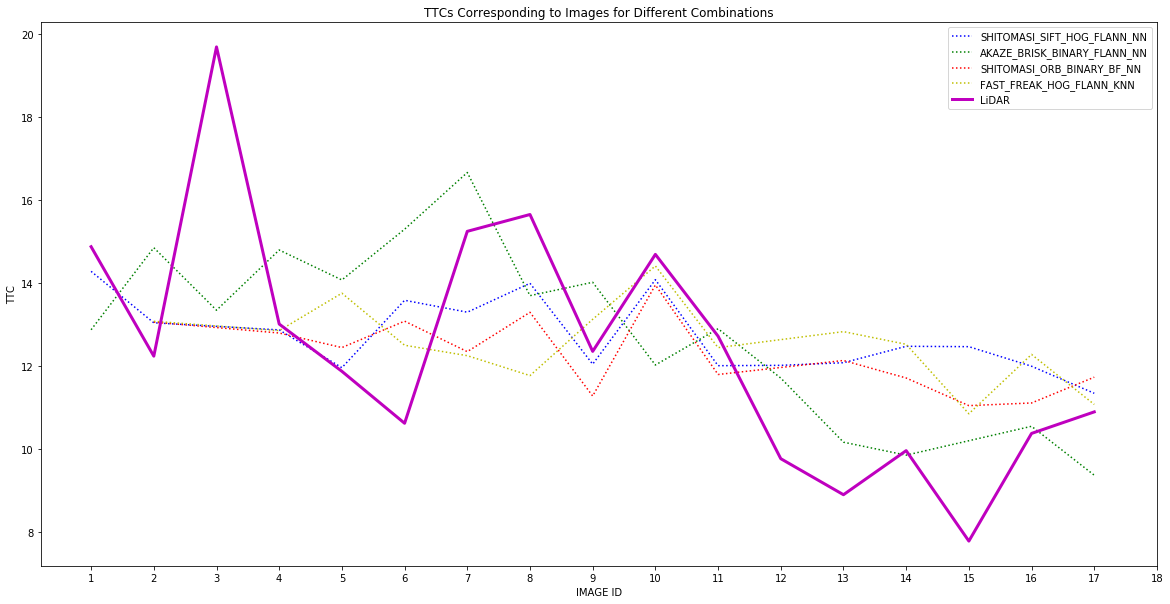
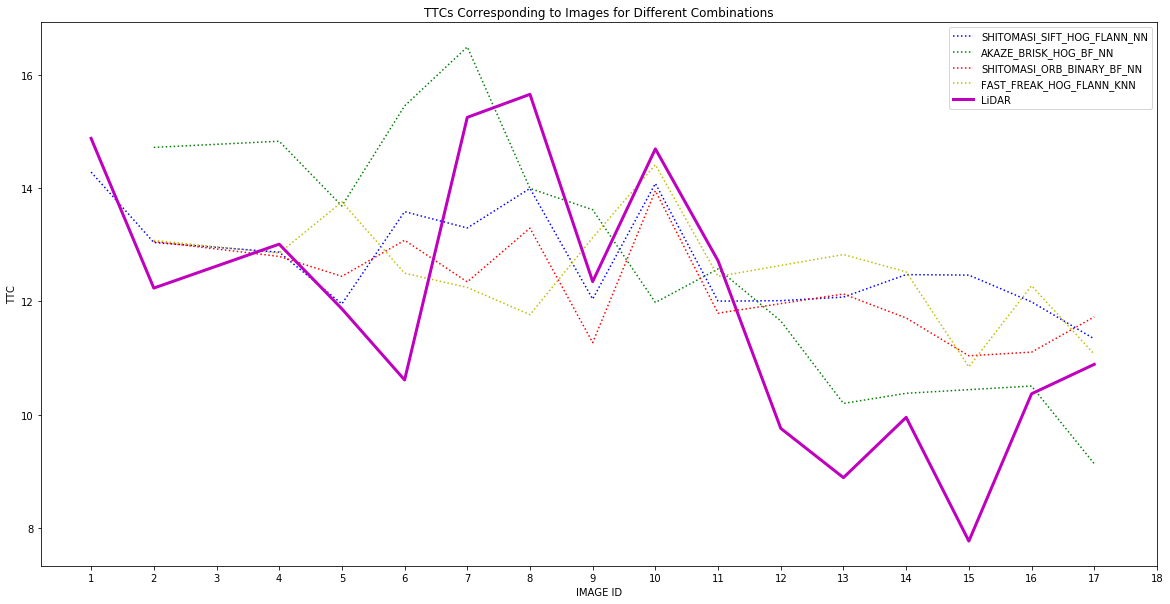
Finish README

diff --git a/README.md b/README.md
@@ -140,23 +140,23 @@ The TOP-10 combinations in terms of accuracy are
 
 | **COMBINATION** | **SCORE** | **IMG#1** | **IMG#2** | **IMG#3** | **IMG#4** | **IMG#5** | **IMG#6** | **IMG#7** | **IMG#8** | **IMG#9** | **IMG#10** | **IMG#11** | **IMG#12** | **IMG#13** | **IMG#14** | **IMG#15** | **IMG#16** | **IMG#17** | **IMG#18** |  
 |:-:|:-:|:-:|:-:|:-:|:-:|:-:|:-:|:-:|:-:|:-:|:-:|:-:|:-:|:-:|:-:|:-:|:-:|:-:|:-:|  
-| SHITOMASI_SIFT_HOG_FLANN_NN | 0.972 | **L**:14.87 <br> **C**:14.28 | **L**:12.23 <br> **C**:13.04 | N/A | **L**:13.01 <br> **C**:12.87 | **L**:11.87 <br> **C**:11.96 | **L**:10.61 <br> **C**:13.58 | **L**:15.25 <br> **C**:13.29 | **L**:15.65 <br> **C**:13.99 | **L**:12.35 <br> **C**:12.04 | **L**:14.69 <br> **C**:14.08 | **L**:12.72 <br> **C**:12.00 | **L**:9.76 <br> **C**:12.01 | **L**:8.89 <br> **C**:12.08 | **L**:9.95 <br> **C**:12.47 | **L**:7.77 <br> **C**:12.46 | **L**:10.37 <br> **C**:11.99 | **L**:10.89 <br> **C**:11.34 | N/A |  
-| SHITOMASI_SIFT_HOG_BF_NN | 0.911 | **L**:14.87 <br> **C**:14.07 | **L**:12.23 <br> **C**:13.74 | N/A | **L**:13.01 <br> **C**:13.02 | **L**:11.87 <br> **C**:12.41 | **L**:10.61 <br> **C**:13.74 | **L**:15.25 <br> **C**:13.36 | **L**:15.65 <br> **C**:13.99 | **L**:12.35 <br> **C**:12.11 | **L**:14.69 <br> **C**:14.08 | **L**:12.72 <br> **C**:11.67 | N/A | **L**:8.89 <br> **C**:12.08 | **L**:9.95 <br> **C**:12.47 | **L**:7.77 <br> **C**:12.46 | **L**:10.37 <br> **C**:11.72 | **L**:10.89 <br> **C**:11.86 | N/A |  
+| SHITOMASI_SIFT_HOG_FLANN_NN | 0.971 | **L**:14.87 <br> **C**:14.28 | **L**:12.23 <br> **C**:13.04 | N/A | **L**:13.01 <br> **C**:12.87 | **L**:11.87 <br> **C**:11.96 | **L**:10.61 <br> **C**:13.58 | **L**:15.25 <br> **C**:13.29 | **L**:15.65 <br> **C**:13.99 | **L**:12.35 <br> **C**:12.04 | **L**:14.69 <br> **C**:14.08 | **L**:12.72 <br> **C**:12.00 | **L**:9.76 <br> **C**:12.01 | **L**:8.89 <br> **C**:12.08 | **L**:9.95 <br> **C**:12.47 | **L**:7.77 <br> **C**:12.46 | **L**:10.37 <br> **C**:11.99 | **L**:10.89 <br> **C**:11.34 | N/A |  
+| SHITOMASI_SIFT_HOG_BF_NN | 0.910 | **L**:14.87 <br> **C**:14.07 | **L**:12.23 <br> **C**:13.74 | N/A | **L**:13.01 <br> **C**:13.02 | **L**:11.87 <br> **C**:12.41 | **L**:10.61 <br> **C**:13.74 | **L**:15.25 <br> **C**:13.36 | **L**:15.65 <br> **C**:13.99 | **L**:12.35 <br> **C**:12.11 | **L**:14.69 <br> **C**:14.08 | **L**:12.72 <br> **C**:11.67 | N/A | **L**:8.89 <br> **C**:12.08 | **L**:9.95 <br> **C**:12.47 | **L**:7.77 <br> **C**:12.46 | **L**:10.37 <br> **C**:11.72 | **L**:10.89 <br> **C**:11.86 | N/A |  
 | AKAZE_FREAK_BINARY_BF_NN | 0.902 | N/A | **L**:12.23 <br> **C**:13.90 | N/A | **L**:13.01 <br> **C**:13.75 | **L**:11.87 <br> **C**:14.96 | **L**:10.61 <br> **C**:14.12 | **L**:15.25 <br> **C**:15.45 | **L**:15.65 <br> **C**:15.75 | **L**:12.35 <br> **C**:14.23 | **L**:14.69 <br> **C**:11.62 | **L**:12.72 <br> **C**:12.23 | **L**:9.76 <br> **C**:10.85 | **L**:8.89 <br> **C**:10.79 | **L**:9.95 <br> **C**:10.36 | N/A | **L**:10.37 <br> **C**:10.22 | **L**:10.89 <br> **C**:9.88 | N/A |  
-| AKAZE_AKAZE_BINARY_FLANN_NN | 0.886 | **L**:14.87 <br> **C**:12.58 | **L**:12.23 <br> **C**:14.71 | N/A | **L**:13.01 <br> **C**:13.80 | **L**:11.87 <br> **C**:15.42 | **L**:10.61 <br> **C**:13.57 | **L**:15.25 <br> **C**:15.62 | **L**:15.65 <br> **C**:13.99 | **L**:12.35 <br> **C**:15.96 | **L**:14.69 <br> **C**:11.50 | **L**:12.72 <br> **C**:12.47 | **L**:9.76 <br> **C**:11.64 | **L**:8.89 <br> **C**:11.49 | **L**:9.95 <br> **C**:10.76 | N/A | **L**:10.37 <br> **C**:10.27 | **L**:10.89 <br> **C**:9.53 | N/A |  
+| AKAZE_AKAZE_BINARY_FLANN_NN | 0.885 | **L**:14.87 <br> **C**:12.58 | **L**:12.23 <br> **C**:14.71 | N/A | **L**:13.01 <br> **C**:13.80 | **L**:11.87 <br> **C**:15.42 | **L**:10.61 <br> **C**:13.57 | **L**:15.25 <br> **C**:15.62 | **L**:15.65 <br> **C**:13.99 | **L**:12.35 <br> **C**:15.96 | **L**:14.69 <br> **C**:11.50 | **L**:12.72 <br> **C**:12.47 | **L**:9.76 <br> **C**:11.64 | **L**:8.89 <br> **C**:11.49 | **L**:9.95 <br> **C**:10.76 | N/A | **L**:10.37 <br> **C**:10.27 | **L**:10.89 <br> **C**:9.53 | N/A |  
 | AKAZE_BRISK_HOG_BF_NN | 0.876 | N/A | **L**:12.23 <br> **C**:14.72 | N/A | **L**:13.01 <br> **C**:14.82 | **L**:11.87 <br> **C**:13.68 | **L**:10.61 <br> **C**:15.45 | **L**:15.25 <br> **C**:16.49 | **L**:15.65 <br> **C**:13.99 | **L**:12.35 <br> **C**:13.62 | **L**:14.69 <br> **C**:11.98 | **L**:12.72 <br> **C**:12.57 | **L**:9.76 <br> **C**:11.65 | **L**:8.89 <br> **C**:10.20 | **L**:9.95 <br> **C**:10.38 | N/A | **L**:10.37 <br> **C**:10.51 | **L**:10.89 <br> **C**:9.14 | N/A |  
-| AKAZE_BRISK_BINARY_FLANN_NN | 0.866 | **L**:14.87 <br> **C**:12.87 | **L**:12.23 <br> **C**:14.85 | **L**:19.70 <br> **C**:13.34 | **L**:13.01 <br> **C**:14.80 | **L**:11.87 <br> **C**:14.07 | **L**:10.61 <br> **C**:15.30 | **L**:15.25 <br> **C**:16.67 | **L**:15.65 <br> **C**:13.69 | **L**:12.35 <br> **C**:14.02 | **L**:14.69 <br> **C**:12.02 | **L**:12.72 <br> **C**:12.90 | **L**:9.76 <br> **C**:11.70 | **L**:8.89 <br> **C**:10.16 | **L**:9.95 <br> **C**:9.84 | N/A | **L**:10.37 <br> **C**:10.54 | **L**:10.89 <br> **C**:9.36 | N/A |  
-| AKAZE_BRIEF_HOG_BF_NN | 0.861 | **L**:14.87 <br> **C**:14.49 | **L**:12.23 <br> **C**:16.94 | N/A | **L**:13.01 <br> **C**:14.57 | **L**:11.87 <br> **C**:15.87 | **L**:10.61 <br> **C**:15.06 | **L**:15.25 <br> **C**:16.70 | **L**:15.65 <br> **C**:14.92 | **L**:12.35 <br> **C**:17.03 | **L**:14.69 <br> **C**:12.48 | **L**:12.72 <br> **C**:12.83 | **L**:9.76 <br> **C**:10.90 | **L**:8.89 <br> **C**:12.47 | **L**:9.95 <br> **C**:11.15 | N/A | **L**:10.37 <br> **C**:10.81 | **L**:10.89 <br> **C**:10.21 | N/A |  
-| SHITOMASI_ORB_BINARY_BF_NN | 0.860 | N/A | **L**:12.23 <br> **C**:13.06 | N/A | **L**:13.01 <br> **C**:12.79 | **L**:11.87 <br> **C**:12.44 | **L**:10.61 <br> **C**:13.08 | **L**:15.25 <br> **C**:12.34 | **L**:15.65 <br> **C**:13.29 | **L**:12.35 <br> **C**:11.27 | **L**:14.69 <br> **C**:13.95 | **L**:12.72 <br> **C**:11.79 | N/A | **L**:8.89 <br> **C**:12.13 | **L**:9.95 <br> **C**:11.71 | **L**:7.77 <br> **C**:11.04 | **L**:10.37 <br> **C**:11.10 | **L**:10.89 <br> **C**:11.73 | N/A |  
-| FAST_FREAK_HOG_FLANN_KNN | 0.855 | N/A | **L**:12.23 <br> **C**:13.08 | N/A | **L**:13.01 <br> **C**:12.85 | **L**:11.87 <br> **C**:13.75 | **L**:10.61 <br> **C**:12.50 | **L**:15.25 <br> **C**:12.25 | **L**:15.65 <br> **C**:11.76 | **L**:12.35 <br> **C**:13.12 | **L**:14.69 <br> **C**:14.41 | **L**:12.72 <br> **C**:12.44 | N/A | **L**:8.89 <br> **C**:12.83 | **L**:9.95 <br> **C**:12.52 | **L**:7.77 <br> **C**:10.84 | **L**:10.37 <br> **C**:12.28 | **L**:10.89 <br> **C**:11.07 | N/A |  
-| AKAZE_BRISK_HOG_FLANN_NN | 0.849 | N/A | **L**:12.23 <br> **C**:15.43 | N/A | **L**:13.01 <br> **C**:14.80 | **L**:11.87 <br> **C**:13.28 | **L**:10.61 <br> **C**:14.62 | **L**:15.25 <br> **C**:17.43 | **L**:15.65 <br> **C**:14.38 | **L**:12.35 <br> **C**:13.85 | **L**:14.69 <br> **C**:11.92 | **L**:12.72 <br> **C**:12.98 | **L**:9.76 <br> **C**:11.75 | **L**:8.89 <br> **C**:10.26 | **L**:9.95 <br> **C**:10.34 | N/A | **L**:10.37 <br> **C**:10.43 | **L**:10.89 <br> **C**:9.15 | N/A |
+| AKAZE_BRISK_BINARY_FLANN_NN | 0.862 | **L**:14.87 <br> **C**:12.87 | **L**:12.23 <br> **C**:14.85 | **L**:19.70 <br> **C**:13.34 | **L**:13.01 <br> **C**:14.80 | **L**:11.87 <br> **C**:14.07 | **L**:10.61 <br> **C**:15.30 | **L**:15.25 <br> **C**:16.67 | **L**:15.65 <br> **C**:13.69 | **L**:12.35 <br> **C**:14.02 | **L**:14.69 <br> **C**:12.02 | **L**:12.72 <br> **C**:12.90 | **L**:9.76 <br> **C**:11.70 | **L**:8.89 <br> **C**:10.16 | **L**:9.95 <br> **C**:9.84 | N/A | **L**:10.37 <br> **C**:10.54 | **L**:10.89 <br> **C**:9.36 | N/A |  
+| AKAZE_BRIEF_HOG_BF_NN | 0.859 | **L**:14.87 <br> **C**:14.49 | **L**:12.23 <br> **C**:16.94 | N/A | **L**:13.01 <br> **C**:14.57 | **L**:11.87 <br> **C**:15.87 | **L**:10.61 <br> **C**:15.06 | **L**:15.25 <br> **C**:16.70 | **L**:15.65 <br> **C**:14.92 | **L**:12.35 <br> **C**:17.03 | **L**:14.69 <br> **C**:12.48 | **L**:12.72 <br> **C**:12.83 | **L**:9.76 <br> **C**:10.90 | **L**:8.89 <br> **C**:12.47 | **L**:9.95 <br> **C**:11.15 | N/A | **L**:10.37 <br> **C**:10.81 | **L**:10.89 <br> **C**:10.21 | N/A |  
+| SHITOMASI_ORB_BINARY_BF_NN | 0.859 | N/A | **L**:12.23 <br> **C**:13.06 | N/A | **L**:13.01 <br> **C**:12.79 | **L**:11.87 <br> **C**:12.44 | **L**:10.61 <br> **C**:13.08 | **L**:15.25 <br> **C**:12.34 | **L**:15.65 <br> **C**:13.29 | **L**:12.35 <br> **C**:11.27 | **L**:14.69 <br> **C**:13.95 | **L**:12.72 <br> **C**:11.79 | N/A | **L**:8.89 <br> **C**:12.13 | **L**:9.95 <br> **C**:11.71 | **L**:7.77 <br> **C**:11.04 | **L**:10.37 <br> **C**:11.10 | **L**:10.89 <br> **C**:11.73 | N/A |  
+| FAST_FREAK_HOG_FLANN_KNN | 0.854 | N/A | **L**:12.23 <br> **C**:13.08 | N/A | **L**:13.01 <br> **C**:12.85 | **L**:11.87 <br> **C**:13.75 | **L**:10.61 <br> **C**:12.50 | **L**:15.25 <br> **C**:12.25 | **L**:15.65 <br> **C**:11.76 | **L**:12.35 <br> **C**:13.12 | **L**:14.69 <br> **C**:14.41 | **L**:12.72 <br> **C**:12.44 | N/A | **L**:8.89 <br> **C**:12.83 | **L**:9.95 <br> **C**:12.52 | **L**:7.77 <br> **C**:10.84 | **L**:10.37 <br> **C**:12.28 | **L**:10.89 <br> **C**:11.07 | N/A |  
+| AKAZE_BRISK_HOG_FLANN_NN | 0.848 | N/A | **L**:12.23 <br> **C**:15.43 | N/A | **L**:13.01 <br> **C**:14.80 | **L**:11.87 <br> **C**:13.28 | **L**:10.61 <br> **C**:14.62 | **L**:15.25 <br> **C**:17.43 | **L**:15.65 <br> **C**:14.38 | **L**:12.35 <br> **C**:13.85 | **L**:14.69 <br> **C**:11.92 | **L**:12.72 <br> **C**:12.98 | **L**:9.76 <br> **C**:11.75 | **L**:8.89 <br> **C**:10.26 | **L**:9.95 <br> **C**:10.34 | N/A | **L**:10.37 <br> **C**:10.43 | **L**:10.89 <br> **C**:9.15 | N/A |
+
 
 For clarity of visualizations based on performance analysis done in the previous related project 
 [https://github.com/ser94mor/2d-feature-tracking](https://github.com/ser94mor/2d-feature-tracking) 
 the following combinations were selected for further analysis:
 - SHITOMASI_SIFT_HOG_FLANN_NN (clear winner in terms of accuracy)
-- AKAZE_BRISK_BINARY_FLANN_NN (AKAZE-detector is slow but BRISK-descriptor is fast & 
-  it is the only combination from the TOP-10 having estimate for the 3rd image)
+- AKAZE_BRISK_HOG_BF_NN       (AKAZE-detector is slow but BRISK-descriptor is fast)
 - SHITOMASI_ORB_BINARY_BF_NN  (ORB-descriptor is much faster than SIFT)
 - FAST_FREAK_HOG_FLANN_KNN    (the only FAST-detector in the TOP-10 )
 
@@ -164,7 +164,26 @@ LiDAR-based TTC estimates are the same for all the combinations.
 
 ![graph.png](pics/graph.png)  
 
-From the visual graph one can identify the LiDAR-derived TTC outlier for the image #3. 
+From the visual graph one cannot identify significant outliers, although the LiDAR-derived TTC estimations 
+look less stable. One can identify as outlier the LiDAR-based estimation at the image #15. Below are pictures 
+illustrating the top-down view of the LiDAR points and LiDAR points projected to the images #14 and #15.
+
+![outlier-14](pics/outlier-14.png)
+![outlier-15](pics/outlier-15.png)
+
+The root cause of the problem cannot be identified simply by looking onto the pictures. But 7.04 / ((7.13-7.04)/0.1) is, 
+indeed, equals ~7.8.
+
+Visually it is hard to choose the best (detector, descriptor, descriptor type, matcher, selector)  combination. 
+I personally like the trends of SHITOMASI_SIFT_HOG_FLANN_NN and SHITOMASI_ORB_BINARY_BF_NN. 
+The latter one look more realistic to me, 
+although it has lower score than the former. Another advantage of SHITOMASI_ORB_BINARY_BF_NN is that both 
+SHITOMASI detector and ORD descriptor are among the TOP-5 fastest detectors and descriptors as determined in 
+the previous related project 
+[https://github.com/ser94mor/2d-feature-tracking](https://github.com/ser94mor/2d-feature-tracking).
+
+The vehicle collision avoidance system should both be precise in its TTC estimations and work in real time, 
+so the combination **SHITOMASI_ORB_BINARY_BF_NN** seems like the most suitable.
 
 #### Building and Running
 
